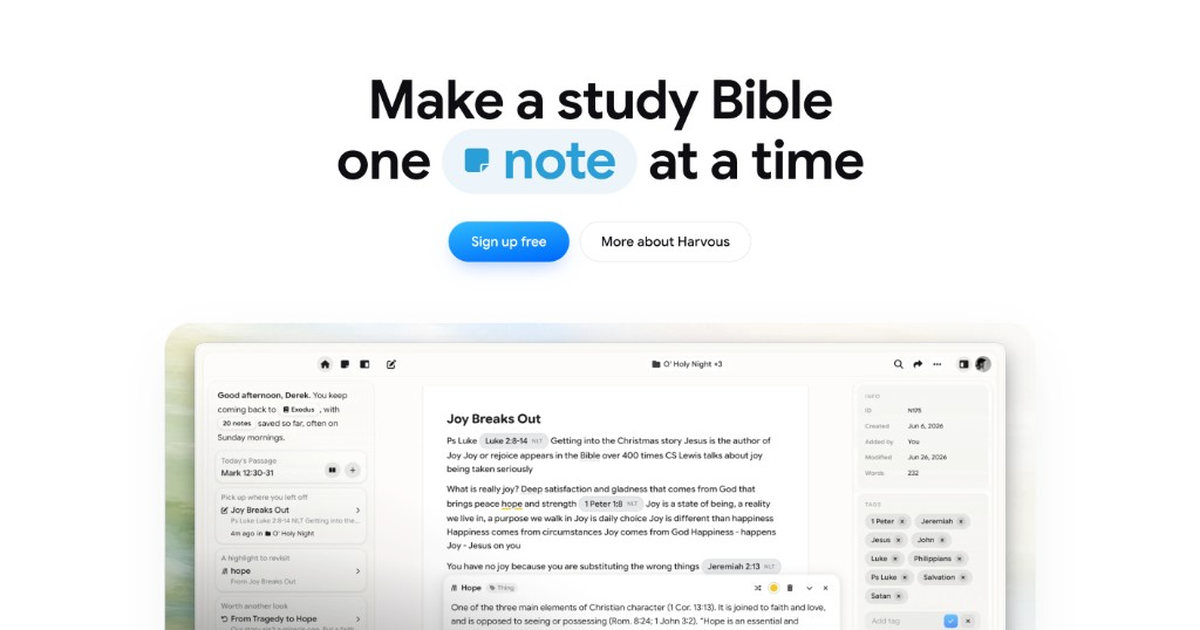
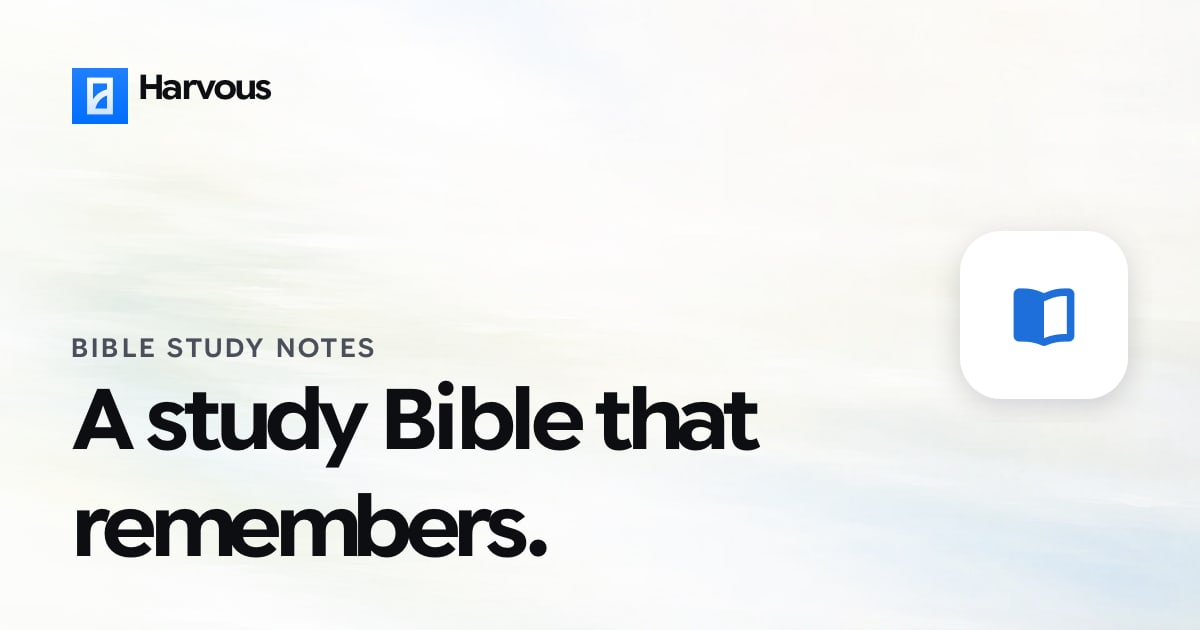
OG images: new-design cards, one per page that lacked its own
Generator (npm run og:cards) draws a pale auth-hero sky, the Harvous mark,
the page's title in Google Sans Flex and a section icon badge; the sky is
picked from the page name. 61 cards: the static pages, the seven blog topics,
the release notes hub and the 42 compare guides. public/og.png (the site-wide
default) is regenerated in the same style; it was the old hero screenshot.
Pages pass ogCard(name) to NextLayout. Features, compare details, Discover
and use-case detail pages keep their own images.

diff --git a/src/lib/og-card.ts b/src/lib/og-card.ts
@@ -1,0 +1,7 @@
+/**
+ * Path of a generated OG card (public/og/<name>.jpg — see scripts/generate-og-cards.mjs).
+ * Pages without a more specific image of their own pass this to NextLayout's `ogImage`.
+ */
+export function ogCard(name: string): string {
+  return `/og/${name}.jpg`;
+}
